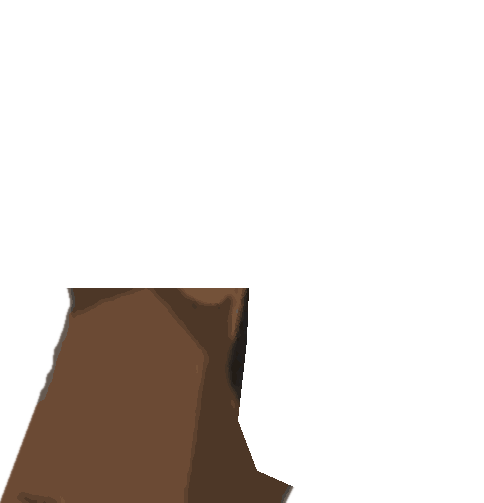
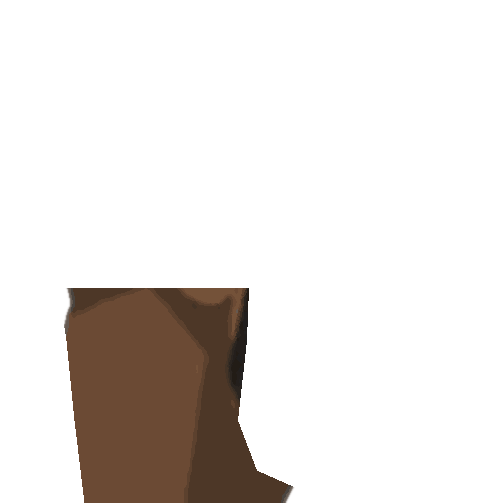
Jon Jones neck: opaque backing under the bending slices, head slightly lower, neck base pulled toward the chest, flap trimmed

Changed region(s): [[0.0, 0.6561, 0.186, 1.0]]

diff --git a/cage/src/Cutout.js b/cage/src/Cutout.js
@@ -18,13 +18,18 @@ function load(name){let S=CO.sets[name];if(S)return S;S=CO.sets[name]={ready:fal
   fetch('assets/cutout/'+name+'/head2.json').then(r=>r.json()).then(m=>{const im=new Image();im.onload=()=>{S.h2={img:im,headH:m.headH,m,meta:{parts:{head2:{x:0,y:0,w:m.w,h:m.h,p0:m.p0,p1:m.p1}}}};if(m.neck){const n=new Image();n.onload=()=>{S.h2.neck=n};n.src='assets/cutout/'+name+'/'+m.neck}};im.src='assets/cutout/'+name+'/'+m.image}).catch(()=>{});return S}
 CO.body=false;
 /* the neck as a bending strip: horizontal slices from the skull down to the shoulders, each turned by an angle between the head's and the trunk's, so the back of the neck folds when the head tips forward or back */
-function neck(ctx,S2,hd,nk,B,d,ku,H){const m=S2.m,P=S2.meta.parts.head2,p0=P.p0,qb=m.neckPivot,y0=m.neckTop,y1=m.neckBot,W=m.w;const J=B.J,mm=d;
+function neck(ctx,S2,hd,nk,B,d,ku,H,skin){const m=S2.m,P=S2.meta.parts.head2,p0=P.p0,qb=m.neckPivot,y0=m.neckTop,y1=m.neckBot,W=m.w;const J=B.J,mm=d;
   const nrm=(x,y)=>{const l=Math.hypot(x,y)||1;return[x/l,y/l]};const uH=nrm(hd.x-nk.x,hd.y-nk.y),uT=nrm(nk.x-J.sh.x,nk.y-J.sh.y);const aH=Math.atan2(uH[1],uH[0])-Math.PI/2,aT=Math.atan2(uT[1],uT[0])-Math.PI/2;let da=aT-aH;while(da>Math.PI)da-=2*Math.PI;while(da<-Math.PI)da+=2*Math.PI;
   const wh=(qx,qy)=>{const x=mm*(qx-p0[0])*ku,y=-(qy-p0[1])*ku,c=Math.cos(aH),s=Math.sin(aH);return{x:hd.x+c*x-s*y,y:hd.y+s*x+c*y}};
-  const Wb=wh(qb[0],qb[1]);const wt=(qx,qy)=>{const x=mm*(qx-qb[0])*ku,y=-(qy-qb[1])*ku,c=Math.cos(aT),s=Math.sin(aT);return{x:Wb.x+c*x-s*y,y:Wb.y+s*x+c*y}};
-  const N=24,step=(y1-y0)/N;for(let i=0;i<N;i++){const ya=y0+i*step,yb=ya+step,yc=(ya+yb)/2,t=(i+.5)/N,sm=t*t*(3-2*t),xc=150;const A=wh(xc,yc),Bt=wt(xc,yc);const px=A.x+(Bt.x-A.x)*sm,py=A.y+(Bt.y-A.y)*sm,al=aH+da*sm;
+  const Wb=wh(qb[0],qb[1]);Wb.x+=d*.013*H;Wb.y-=.01*H;/* the base of the neck sits further toward the chest */const wt=(qx,qy)=>{const x=mm*(qx-qb[0])*ku,y=-(qy-qb[1])*ku,c=Math.cos(aT),s=Math.sin(aT);return{x:Wb.x+c*x-s*y,y:Wb.y+s*x+c*y}};
+  const N=24,step=(y1-y0)/N,rows=m.neckRows;
+  /* opaque backing: a solid skin column under the slices so no seam ever shows the background through the neck */
+  const L=[],R=[];for(let i=0;i<=N;i++){const y=Math.min(y1-1,y0+i*step),t=i/N,sm=t*t*(3-2*t),r=rows&&rows[Math.round(y)];if(!r)continue;const cx=150;
+    for(const[side,x]of[[L,r[0]+4],[R,r[1]-4]]){const A=wh(x,y),Bt=wt(x,y);side.push({x:A.x+(Bt.x-A.x)*sm,y:A.y+(Bt.y-A.y)*sm})}}
+  if(L.length>2){ctx.fillStyle=skin?shade(skin,-.02):'#6b4a34';ctx.beginPath();L.forEach((q,i)=>i?ctx.lineTo(q.x,q.y):ctx.moveTo(q.x,q.y));R.slice().reverse().forEach(q=>ctx.lineTo(q.x,q.y));ctx.closePath();ctx.fill()}
+  for(let i=0;i<N;i++){const ya=y0+i*step,yb=ya+step,yc=(ya+yb)/2,t=(i+.5)/N,sm=t*t*(3-2*t),xc=150;const A=wh(xc,yc),Bt=wt(xc,yc);const px=A.x+(Bt.x-A.x)*sm,py=A.y+(Bt.y-A.y)*sm,al=aH+da*sm;
     const ex=1.5;ctx.save();ctx.translate(px,py);ctx.rotate(al);ctx.scale(mm*ku,-ku);ctx.drawImage(S2.neck,0,ya-ex,W,step+2*ex,-xc,(ya-ex)-yc,W,step+2*ex);ctx.restore()}}
-CO.head=function(ctx,hd,nk,H,B,d){const lk=B.look;if(!CO.on||!lk||!lk.cutout)return false;const S=load(lk.cutout);if(S.h2){/* anchored on the head centre, hanging down along the neck line */ctx.imageSmoothingEnabled=true;ctx.imageSmoothingQuality='high';const ku=H*(lk.headK||.145)/S.h2.headH;if(S.h2.neck)neck(ctx,S.h2,hd,nk,B,d,ku,H);put(ctx,S.h2,'head2',hd,nk,d,ku,1,1,true);return true}if(!S.ready)return false;const ku=H*1.03/(S.meta.h*.935)*1.08;ctx.imageSmoothingEnabled=true;ctx.imageSmoothingQuality='high';/* the neck: a solid column from the shoulders up under the jaw (the picture's head part carries only a stub of it) */
+CO.head=function(ctx,hd,nk,H,B,d){const lk=B.look;if(!CO.on||!lk||!lk.cutout)return false;const S=load(lk.cutout);if(S.h2){/* anchored on the head centre, hanging down along the neck line */ctx.imageSmoothingEnabled=true;ctx.imageSmoothingQuality='high';const ku=H*(lk.headK||.145)/S.h2.headH;const Lh=Math.hypot(hd.x-nk.x,hd.y-nk.y)||1,dn=H*(lk.headDown!=null?lk.headDown:.007);const hd2={x:hd.x-(hd.x-nk.x)/Lh*dn,y:hd.y-(hd.y-nk.y)/Lh*dn};/* head a little lower */if(S.h2.neck)neck(ctx,S.h2,hd2,nk,B,d,ku,H,lk.skin);put(ctx,S.h2,'head2',hd2,nk,d,ku,1,1,true);return true}if(!S.ready)return false;const ku=H*1.03/(S.meta.h*.935)*1.08;ctx.imageSmoothingEnabled=true;ctx.imageSmoothingQuality='high';/* the neck: a solid column from the shoulders up under the jaw (the picture's head part carries only a stub of it) */
   {const L=Math.hypot(hd.x-nk.x,hd.y-nk.y)||1e-5,ux=(hd.x-nk.x)/L,uy=(hd.y-nk.y)/L;let nx=-uy,ny=ux;if(nx*d<0){nx=-nx;ny=-ny}const skin=lk.skin||'#7d5033';
    const Q=(aa,bb)=>({x:nk.x+ux*aa+nx*bb,y:nk.y+uy*aa+ny*bb});
    const poly=[Q(-.05*H,.05*H),Q(.04*H,.042*H),Q(L*.9,.036*H),Q(L*1.0,-.04*H),Q(.03*H,-.075*H),Q(-.05*H,-.1*H)];
